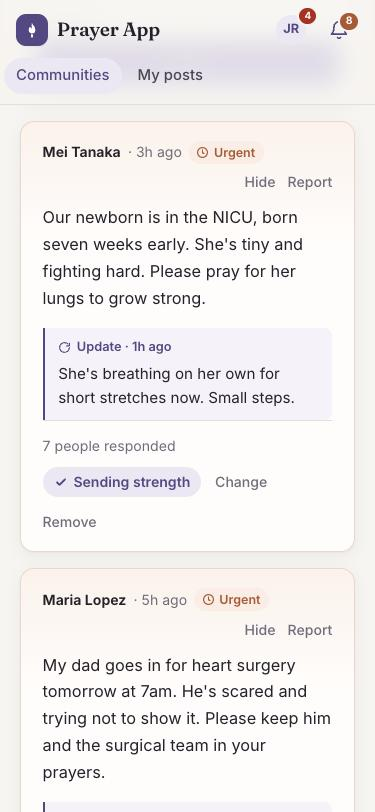
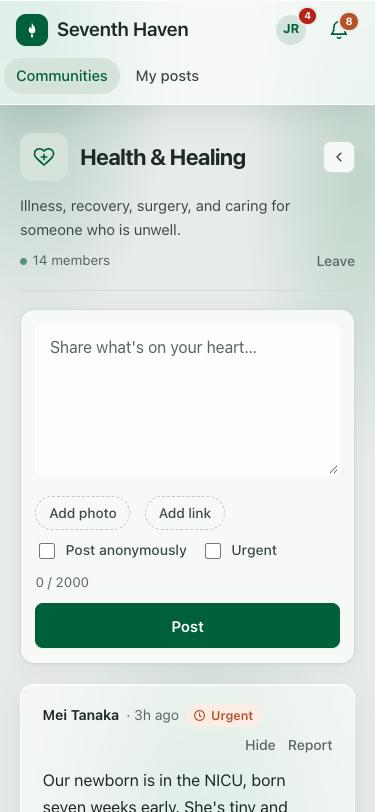
Retake README screenshots for the rebrand; fix member count spacing
Replace the five screenshots with the Seventh Haven design, add one of
the seven-step home page as the README's lead image, and drop the note
saying the screenshots were out of date. All taken from the demo
database.

Fix the home page showing "14members": the count and the word are now
one expression, so the space between them is not trimmed.

diff --git a/README.md b/README.md
@@ -8,7 +8,7 @@ The name comes from its seven communities, the seven havens, with a nod to "seve
 The short form is 7Haven. (The code, projects and repository keep the working name
 `PrayerApp`.)
 
-![A community page: the community and composer docked on the left, the ranked feed on the right](docs/screenshots/community.jpg)
+![The home page: seven numbered pillars rising like a staircase, green for the communities you have joined and clear glass for the rest](docs/screenshots/home.jpg)
 
 **Stack:** ASP.NET Core 10 minimal APIs · Blazor WebAssembly · EF Core · SQL Server 2025 ·
 ASP.NET Core Identity + JWT · xUnit + Testcontainers · GitHub Actions
@@ -115,8 +115,7 @@ isolation.
 
 ## Screenshots
 
-> These were taken before the Seventh Haven rebrand and still show the earlier purple
-> design and name. The layouts of these screens are unchanged.
+![A community page: the community and composer docked on the left, the ranked feed on the right](docs/screenshots/community.jpg)
 
 | Post with updates | Moderation queue |
 |---|---|
